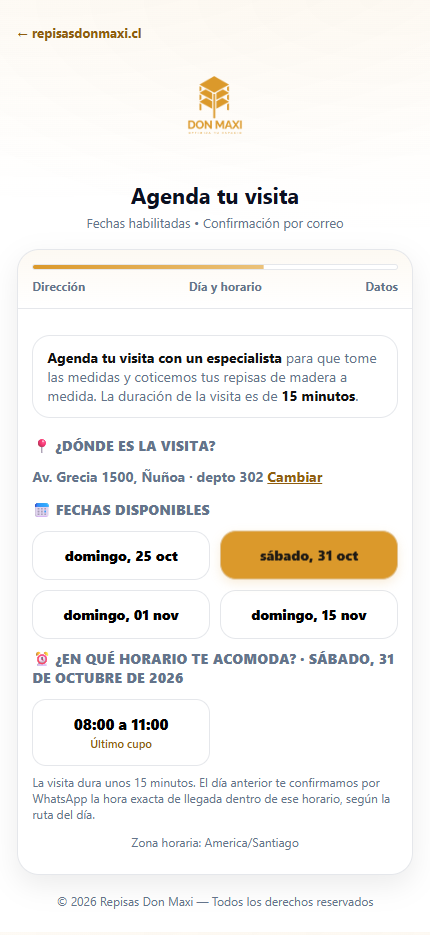
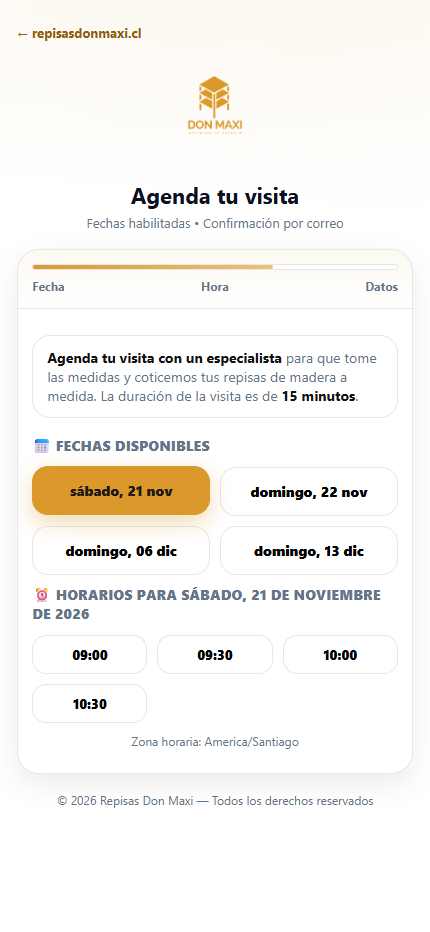
Visitas: vuelve el agendamiento de antes (dia, hora exacta y datos)
Pedir la direccion primero bajo mucho las visitas agendadas. /visita vuelve a ser: elegir dia,
elegir hora exacta (las de Admin -> Horarios, las tomadas no se pueden elegir) y al final los
datos con la direccion escrita a mano. La visita dura 15 min a esa hora.
El servidor acepta de nuevo hora exacta (horaHHmm): revisa que este en el horario y libre. La
comuna se saca del texto de la direccion cuando se puede, para la ruta del dia. Los rangos con
cupo siguen para reagendar desde el admin.

diff --git a/src/App.jsx b/src/App.jsx
@@ -1,14 +1,13 @@
 import React, { useEffect, useMemo, useState } from 'react'
 import { WHATSAPP } from '../netlify/functions/lib/marca.mjs'
-import DireccionVisita, { OTRA_COMUNA } from './DireccionVisita.jsx'
 
 const CONFIG = {
   timezone: 'America/Santiago',
   business: { name: 'Repisas Don Maxi', notifyPhone: WHATSAPP },
   logoUrl: '/logo.png',
   endpoints: {
-    // Dias y rangos (8–11, 11–14, 14–17, 17–20) con cupo, segun Admin → Horarios.
-    rangos: '/.netlify/functions/visitas-rangos',
+    horarios: '/.netlify/functions/horarios',
+    availability: '/.netlify/functions/get-availability',
     createEvent: '/.netlify/functions/create_event',
   }
 }
@@ -17,34 +16,36 @@ const CONFIG = {
 function parseLocalDate(iso){ const [y,m,d]=iso.split('-').map(Number); return new Date(y,(m??1)-1,d??1) }
 function prettyDate(date){ return new Intl.DateTimeFormat('es-CL',{dateStyle:'full'}).format(date) }
 function encode(data){ return new URLSearchParams(data).toString() }
-const textoRango = r => `${r.desde} a ${r.hasta}`
 
+// /visita: el cliente elige dia, hora exacta y deja sus datos con la direccion (como antes del
+// 2026-10-24; volvio el 2026-11-16 porque pedir la direccion primero bajo las visitas agendadas).
 export default function App(){
-  // Primero la direccion (con autocompletado de Google si hay clave), despues el dia y el rango:
-  // la hora exacta sale de la ruta del dia y se le avisa al cliente el dia anterior.
-  const [ubicacion, setUbicacion] = useState({ calle: '', depto: '', comuna: '', verificada: false })
-  const [ubicacionLista, setUbicacionLista] = useState(false)
+  // Dias y horas los define el admin (seccion Horarios); el servidor los entrega ya calculados.
   const [dias, setDias] = useState(null) // null = cargando
   const [diasError, setDiasError] = useState('')
   const [selectedDateISO,setSelectedDateISO]=useState('')
-  const [rango,setRango]=useState(null)
+  const [selectedSlot,setSelectedSlot]=useState('')
+  const [availability, setAvailability] = useState(null) // null = aún no cargado
+  const [loadingAvail, setLoadingAvail] = useState(false)
+  const [availError, setAvailError] = useState('')
 
-  const [form,setForm]=useState({nombre:'',apellido:'',email:'',celular:'',comentarios:''})
+  const [form,setForm]=useState({nombre:'',apellido:'',email:'',celular:'',direccion:'',comentarios:''})
   const [submitting,setSubmitting]=useState(false)
   const [toast,setToast]=useState({ type:'', msg:'' })
 
-  function cargarDias() {
-    setDias(null); setDiasError(''); setSelectedDateISO(''); setRango(null)
-    fetch(`${CONFIG.endpoints.rangos}?v=${Date.now()}`, { cache: 'no-store' })
+  useEffect(() => {
+    fetch(`${CONFIG.endpoints.horarios}?v=${Date.now()}`, { cache: 'no-store' })
       .then(r => r.json())
-      .then(data => { if (data?.ok && Array.isArray(data.dias)) setDias(data.dias); else throw new Error() })
+      .then(data => {
+        if (data?.ok && Array.isArray(data.dias)) setDias(data.dias)
+        else { setDias([]); setDiasError('No se pudieron cargar las fechas disponibles.') }
+      })
       .catch(() => { setDias([]); setDiasError('No se pudieron cargar las fechas disponibles.') })
-  }
-  useEffect(() => { if (ubicacionLista) cargarDias() }, [ubicacionLista])
-  const diaElegido = useMemo(() => dias?.find(d => d.fecha === selectedDateISO), [dias, selectedDateISO])
+  }, [])
+  const baseSlots = useMemo(() => dias?.find(d => d.fecha === selectedDateISO)?.horas || [], [dias, selectedDateISO])
   const selectedDate = useMemo(()=>selectedDateISO?parseLocalDate(selectedDateISO):null,[selectedDateISO])
 
-  const step = useMemo(()=> !ubicacionLista ? 1 : rango ? 3 : 2, [ubicacionLista, rango])
+  const step = useMemo(()=> selectedDateISO ? (selectedSlot ? 3 : 2) : 1, [selectedDateISO, selectedSlot])
   useEffect(()=>{
     const el = document.getElementById('progress-bar')
     if(!el) return
@@ -52,44 +53,87 @@ export default function App(){
   },[step])
 
   const canSubmit = Boolean(
-    selectedDateISO && rango &&
+    selectedDateISO && selectedSlot &&
     form.nombre.trim() && form.apellido.trim() &&
     /^\S+@\S+\.\S+$/.test(form.email.trim()) &&
-    form.celular.trim() && ubicacion.calle.trim()
+    form.celular.trim() && form.direccion.trim()
   )
-  const comuna = ubicacion.comuna === OTRA_COMUNA ? '' : ubicacion.comuna
-  const direccionCompleta = [[ubicacion.calle.trim(), comuna].filter(Boolean).join(', '), ubicacion.depto.trim()].filter(Boolean).join(' · ')
+
+  // ----------- DISPONIBILIDAD -----------
+  useEffect(() => {
+    if (!selectedDateISO || baseSlots.length === 0) return
+    const controller = new AbortController()
+    setLoadingAvail(true)
+    setAvailError('')
+    setAvailability(null)
+    setSelectedSlot('')
+
+    const params = new URLSearchParams({
+      date: selectedDateISO,
+      tz: CONFIG.timezone,
+      mode: 'created-only',
+      slots: baseSlots.join(',')
+    })
+
+    const url = `${CONFIG.endpoints.availability}?${params.toString()}&v=${Date.now()}`
+    fetch(url, { signal: controller.signal, cache: 'no-store' })
+      .then(r => r.json())
+      .then(data => {
+        if (data?.ok && data.availability) {
+          setAvailability(data.availability)
+        } else {
+          setAvailError('No se pudo cargar la disponibilidad.')
+          setAvailability({})
+        }
+      })
+      .catch(err => {
+        if (err.name !== 'AbortError') {
+          setAvailError('Error al obtener la disponibilidad.')
+          setAvailability({})
+        }
+      })
+      .finally(() => setLoadingAvail(false))
+
+    return () => controller.abort()
+  }, [selectedDateISO, baseSlots])
 
   // ----------- ENVÍO DE FORMULARIO -----------
   async function handleSubmit(e){
     e.preventDefault()
-    if(!canSubmit || submitting) return
+    if(!canSubmit || submitting || loadingAvail) return
     setSubmitting(true)
     setToast({ type:'', msg:'' })
 
     try{
-      // 1) Google Calendar (el servidor revisa que el rango siga con cupo)
+      // Revalida el slot antes de enviar
+      const checkParams = new URLSearchParams({
+        date: selectedDateISO, tz: CONFIG.timezone, mode: 'created-only', slots: selectedSlot
+      })
+      const check = await fetch(`${CONFIG.endpoints.availability}?${checkParams}&v=${Date.now()}`, { cache:'no-store' })
+      const j = await check.json()
+      if (!j?.ok || j.availability?.[selectedSlot] !== true) {
+        throw new Error('El horario seleccionado ya no está disponible.')
+      }
+
+      // 1) Google Calendar
       const r2 = await fetch(CONFIG.endpoints.createEvent,{
         method:'POST', headers:{'Content-Type':'application/json'},
         body: JSON.stringify({
-          nombre:form.nombre, apellido:form.apellido, email:form.email, celular:form.celular,
-          direccion: ubicacion.calle.trim(), depto: ubicacion.depto.trim(), comuna,
-          ...(ubicacion.verificada ? { lat: ubicacion.lat, lng: ubicacion.lng } : {}),
-          fechaISO:selectedDateISO, rango:rango.desde, note:form.comentarios
+          nombre:form.nombre, apellido:form.apellido, email:form.email, celular:form.celular, direccion:form.direccion,
+          fechaISO:selectedDateISO, horaHHmm:selectedSlot, tz:CONFIG.timezone, note:form.comentarios
         })
       })
       if(!r2.ok){
         const j = await r2.json().catch(()=> ({}))
-        if (r2.status === 409) cargarDias()
-        throw new Error(j.message || j.error || 'No se pudo agendar la visita.')
+        throw new Error(j.message || j.error || 'No se pudo agendar la visita. Intenta de nuevo o escríbenos por WhatsApp.')
       }
 
       // 2) Netlify Forms (solo si Calendar fue OK)
       const payload = {
         'form-name':'agendador','bot-field':'',
         nombre:form.nombre,apellido:form.apellido,email:form.email,celular:form.celular,
-        direccion:direccionCompleta,comentarios:form.comentarios,
-        fecha:selectedDateISO,hora:`${rango.desde}-${rango.hasta}`,tz:CONFIG.timezone
+        direccion:form.direccion,comentarios:form.comentarios,
+        fecha:selectedDateISO,hora:selectedSlot,tz:CONFIG.timezone
       }
       await fetch('/',{
         method:'POST',
@@ -100,16 +144,16 @@ export default function App(){
       // 3) Redirección — pasamos todos los datos del cliente en la URL
       const qs = new URLSearchParams({
         date: selectedDateISO,
-        time: rango.desde,
-        hasta: rango.hasta,
+        time: selectedSlot,
         email: form.email,
         nombre: form.nombre,
         apellido: form.apellido,
         celular: form.celular,
-        direccion: direccionCompleta,
+        direccion: form.direccion,
         ...(form.comentarios ? { comentarios: form.comentarios } : {})
       })
-      window.location.replace(`${window.location.origin}/confirm.html?${qs.toString()}`)
+      const confirmUrl = `${window.location.origin}/confirm.html?${qs.toString()}`
+      window.location.replace(confirmUrl)
       setToast({ type:'ok', msg:'¡Agendado! Redirigiendo…' })
     }catch(err){
       console.error(err)
@@ -119,20 +163,6 @@ export default function App(){
 
   return (
     <div role="application" aria-label="Agendador de visitas">
-      {/* DIRECCION */}
-      <section aria-labelledby="tit-donde">
-        <h2 id="tit-donde" className="section-title">📍 ¿Dónde es la visita?</h2>
-        {ubicacionLista ? (
-          <p className="note" style={{ fontSize: 14 }}>
-            <strong>{direccionCompleta}</strong>{' '}
-            <button type="button" className="link-btn" onClick={() => setUbicacionLista(false)}>Cambiar</button>
-          </p>
-        ) : (
-          <DireccionVisita valor={ubicacion} onChange={setUbicacion} onListo={() => setUbicacionLista(true)} />
-        )}
-      </section>
-
-      {ubicacionLista && <>
       {/* FECHAS */}
       <section aria-labelledby="tit-fechas">
         <h2 id="tit-fechas" className="section-title">📅 Fechas disponibles</h2>
@@ -147,37 +177,74 @@ export default function App(){
         )}
         <div className="dates" role="listbox" aria-label="Seleccione una fecha">
           {(dias || []).map(({ fecha: date })=> {
-            const label = new Intl.DateTimeFormat('es-CL',{ weekday:'long', day:'2-digit', month:'short' }).format(parseLocalDate(date))
+            const d = parseLocalDate(date)
+            const label = new Intl.DateTimeFormat('es-CL',{ weekday:'long', day:'2-digit', month:'short' }).format(d)
             const active = selectedDateISO===date
             return (
-              <button key={date} type="button" className={`date-btn ${active?'active':''}`} aria-pressed={active}
-                onClick={()=> { setSelectedDateISO(date); setRango(null) }}>{label}</button>
+              <button
+                key={date}
+                type="button"
+                className={`date-btn ${active?'active':''}`}
+                aria-pressed={active}
+                onClick={()=> setSelectedDateISO(date)}
+              >{label}</button>
             )
           })}
         </div>
       </section>
 
-      {/* RANGOS */}
-      {selectedDate && diaElegido && (
+      {/* HORARIOS */}
+      {selectedDate && (
         <section aria-labelledby="tit-horas" style={{ marginTop: 8 }}>
-          <h2 id="tit-horas" className="section-title">⏰ ¿En qué horario te acomoda? · {prettyDate(selectedDate)}</h2>
-          <div className="slots rangos" role="listbox" aria-label="Seleccione un rango horario">
-            {diaElegido.rangos.map(r => {
-              const active = rango?.desde === r.desde
+          <h2 id="tit-horas" className="section-title">
+            ⏰ Horarios para {prettyDate(selectedDate)}
+            {loadingAvail ? ' — verificando…' : ''}
+          </h2>
+
+          {availError && (
+            <p className="note" role="alert" style={{ color:'#b91c1c' }}>
+              {availError}
+            </p>
+          )}
+
+          <div
+            className="slots"
+            role="listbox"
+            aria-label="Seleccione un horario"
+            aria-busy={loadingAvail ? 'true' : 'false'}
+            style={loadingAvail ? { opacity:.6, pointerEvents:'none', cursor:'progress' } : {}}
+          >
+            {baseSlots.map(slot=>{
+              const isFree = availability?.[slot] === true
+              const active = selectedSlot===slot
+              const disabled = loadingAvail || !isFree || !!availError
               return (
-                <button key={r.desde} type="button" className={`slot ${active?'active':''}`} aria-pressed={active} onClick={()=> setRango(r)}>
-                  {textoRango(r)}
-                  {r.libres <= 2 && <small>{r.libres === 1 ? 'Último cupo' : 'Últimos cupos'}</small>}
+                <button
+                  key={slot}
+                  type="button"
+                  className={`slot ${active?'active':''}`}
+                  aria-pressed={active}
+                  aria-disabled={disabled}
+                  disabled={disabled}
+                  onClick={()=> !disabled && setSelectedSlot(slot)}
+                  title={loadingAvail ? 'Verificando…' : (isFree ? 'Disponible' : 'No disponible')}
+                >
+                  {slot}
                 </button>
               )
             })}
           </div>
-          <p className="note">La visita dura unos 15 minutos. El día anterior te confirmamos por WhatsApp la hora exacta de llegada dentro de ese horario, según la ruta del día.</p>
+
+          {selectedSlot && !loadingAvail && (
+            <p className="note" aria-live="polite" style={{ marginTop: 8 }}>
+              Seleccionaste <strong>{prettyDate(selectedDate)}</strong> a las <strong>{selectedSlot}</strong>.
+            </p>
+          )}
         </section>
       )}
 
       {/* FORMULARIO */}
-      {rango && (
+      {selectedSlot && !loadingAvail && (
         <section aria-labelledby="tit-datos" style={{ marginTop: 10 }}>
           <h2 id="tit-datos" className="section-title">🧾 Tus datos</h2>
           <form onSubmit={handleSubmit} noValidate>
@@ -186,15 +253,21 @@ export default function App(){
               <div><label>Apellido</label><input value={form.apellido} onChange={e=>setForm({...form,apellido:e.target.value})} required /></div>
               <div><label>Correo</label><input type="email" value={form.email} onChange={e=>setForm({...form,email:e.target.value})} required /></div>
               <div><label>Celular</label><input type="tel" value={form.celular} onChange={e=>setForm({...form,celular:e.target.value})} required /></div>
+              <div><label>Dirección</label><input value={form.direccion} onChange={e=>setForm({...form,direccion:e.target.value})} placeholder="Calle, número y comuna" autoComplete="street-address" required /></div>
               <div><label>Comentarios</label><input value={form.comentarios} onChange={e=>setForm({...form,comentarios:e.target.value})} placeholder="Opcional" /></div>
             </div>
 
             <div style={{ marginTop: 14 }}>
-              <button className="btn" type="submit" disabled={!canSubmit || submitting} aria-busy={submitting ? 'true' : 'false'}>
-                {submitting ? 'Agendando…' : `Agendar visita · ${textoRango(rango)}`}
+              <button
+                className="btn"
+                type="submit"
+                disabled={!canSubmit || submitting || loadingAvail}
+                aria-busy={submitting ? 'true' : 'false'}
+              >
+                {submitting ? 'Agendando…' : 'Agendar visita (15 min)'}
               </button>
               <p className="note">
-                Al agendar recibirás una invitación en tu correo con el horario elegido.
+                Al agendar recibirás una invitación directamente en tu correo.
                 Por favor asegúrate de haberlo escrito correctamente.
               </p>
             </div>
@@ -204,8 +277,6 @@ export default function App(){
           </form>
         </section>
       )}
-
-      </>}
 
       <footer style={{ textAlign:'center', marginTop: 10, fontSize: 12, color: 'var(--muted)' }}>
         Zona horaria: {CONFIG.timezone}

diff --git a/index.html b/index.html
@@ -182,7 +182,7 @@
             <div class="bar" id="progress-bar" style="width:33%"></div>
           </div>
           <div class="steps-line" id="steps-line">
-            <span>Dirección</span><span>Día y horario</span><span>Datos</span>
+            <span>Fecha</span><span>Hora</span><span>Datos</span>
           </div>
         </div>
 
